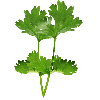
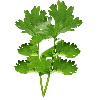
add plant pics

Changed region(s): [[0.15, 0.33, 0.81, 0.6]]

diff --git a/styles.css b/styles.css
@@ -110,39 +110,30 @@ body {
     width: 100%;
 }
 
-.Eggplant {
-    background-image: url('eggplant.png');
+.plant-square {
     background-size: contain;
     background-repeat: no-repeat;
     border-style: none;
+}
+
+.Eggplant {
+    background-image: url('eggplant.png');
 }
 
 .Garlic {
     background-image: url('garlic.png');
-    background-size: contain;
-    background-repeat: no-repeat;
-    border-style: none;
 }
 
 .Arugula {
     background-image: url('arugula.png');
-    background-size: contain;
-    background-repeat: no-repeat;
-    border-style: none;
 }
 
 .Cilantro {
     background-image: url('cilantro.png');
-    background-size: contain;
-    background-repeat: no-repeat;
-    border-style: none;
 }
 
 .Basil {
-    background-image: url('baisl.png');
-    background-size: contain;
-    background-repeat: no-repeat;
-    border-style: none;
+    background-image: url('basil.png');
 }
 
 .plantMenuContainer {
@@ -189,8 +180,13 @@ body {
     font-family: Verdana, Geneva, Tahoma, sans-serif;
 }
 
+.plantSearchResult {
+    overflow-y: scroll;
+    height: 90vh;
+}
+
 .plantSearchResult a{
-    display: block;
+    display: flex;
     border-style: solid;
     border-width: 1px;
     border-color: gray;
@@ -199,4 +195,16 @@ body {
     padding: .8em;
     font-size: 1.2em;
     font-family: Verdana, Geneva, Tahoma, sans-serif;
+    box-shadow: 0 8px 6px -6px black;
+}
+
+.plantMenuIcon {
+    margin-left: 20vmin;
+    min-width: 100px;
+    min-height: 100px;
+    width: 10vmin;
+    height: 10vmin;
+    background-size: contain;
+    background-repeat: no-repeat;
+    border-style: none;
 }

diff --git a/index.html b/index.html
@@ -33,7 +33,10 @@
               <a class="searchcancel" v-on:click="cancelPlantSelection">Cancel</a>
             </div>
             <div class="plantSearchResult">
-                <a v-for="plant in plants" v-on:click="selectplant(plant)">{{plant.name}}</a>
+                <a v-for="plant in plants" v-on:click="selectplant(plant)">
+                  <p>{{plant.name}}</p>
+                  <div class="plantMenuIcon" v-bind:class="plant.name"></div>
+                </a>
             </div>
           </div>
         </div>
